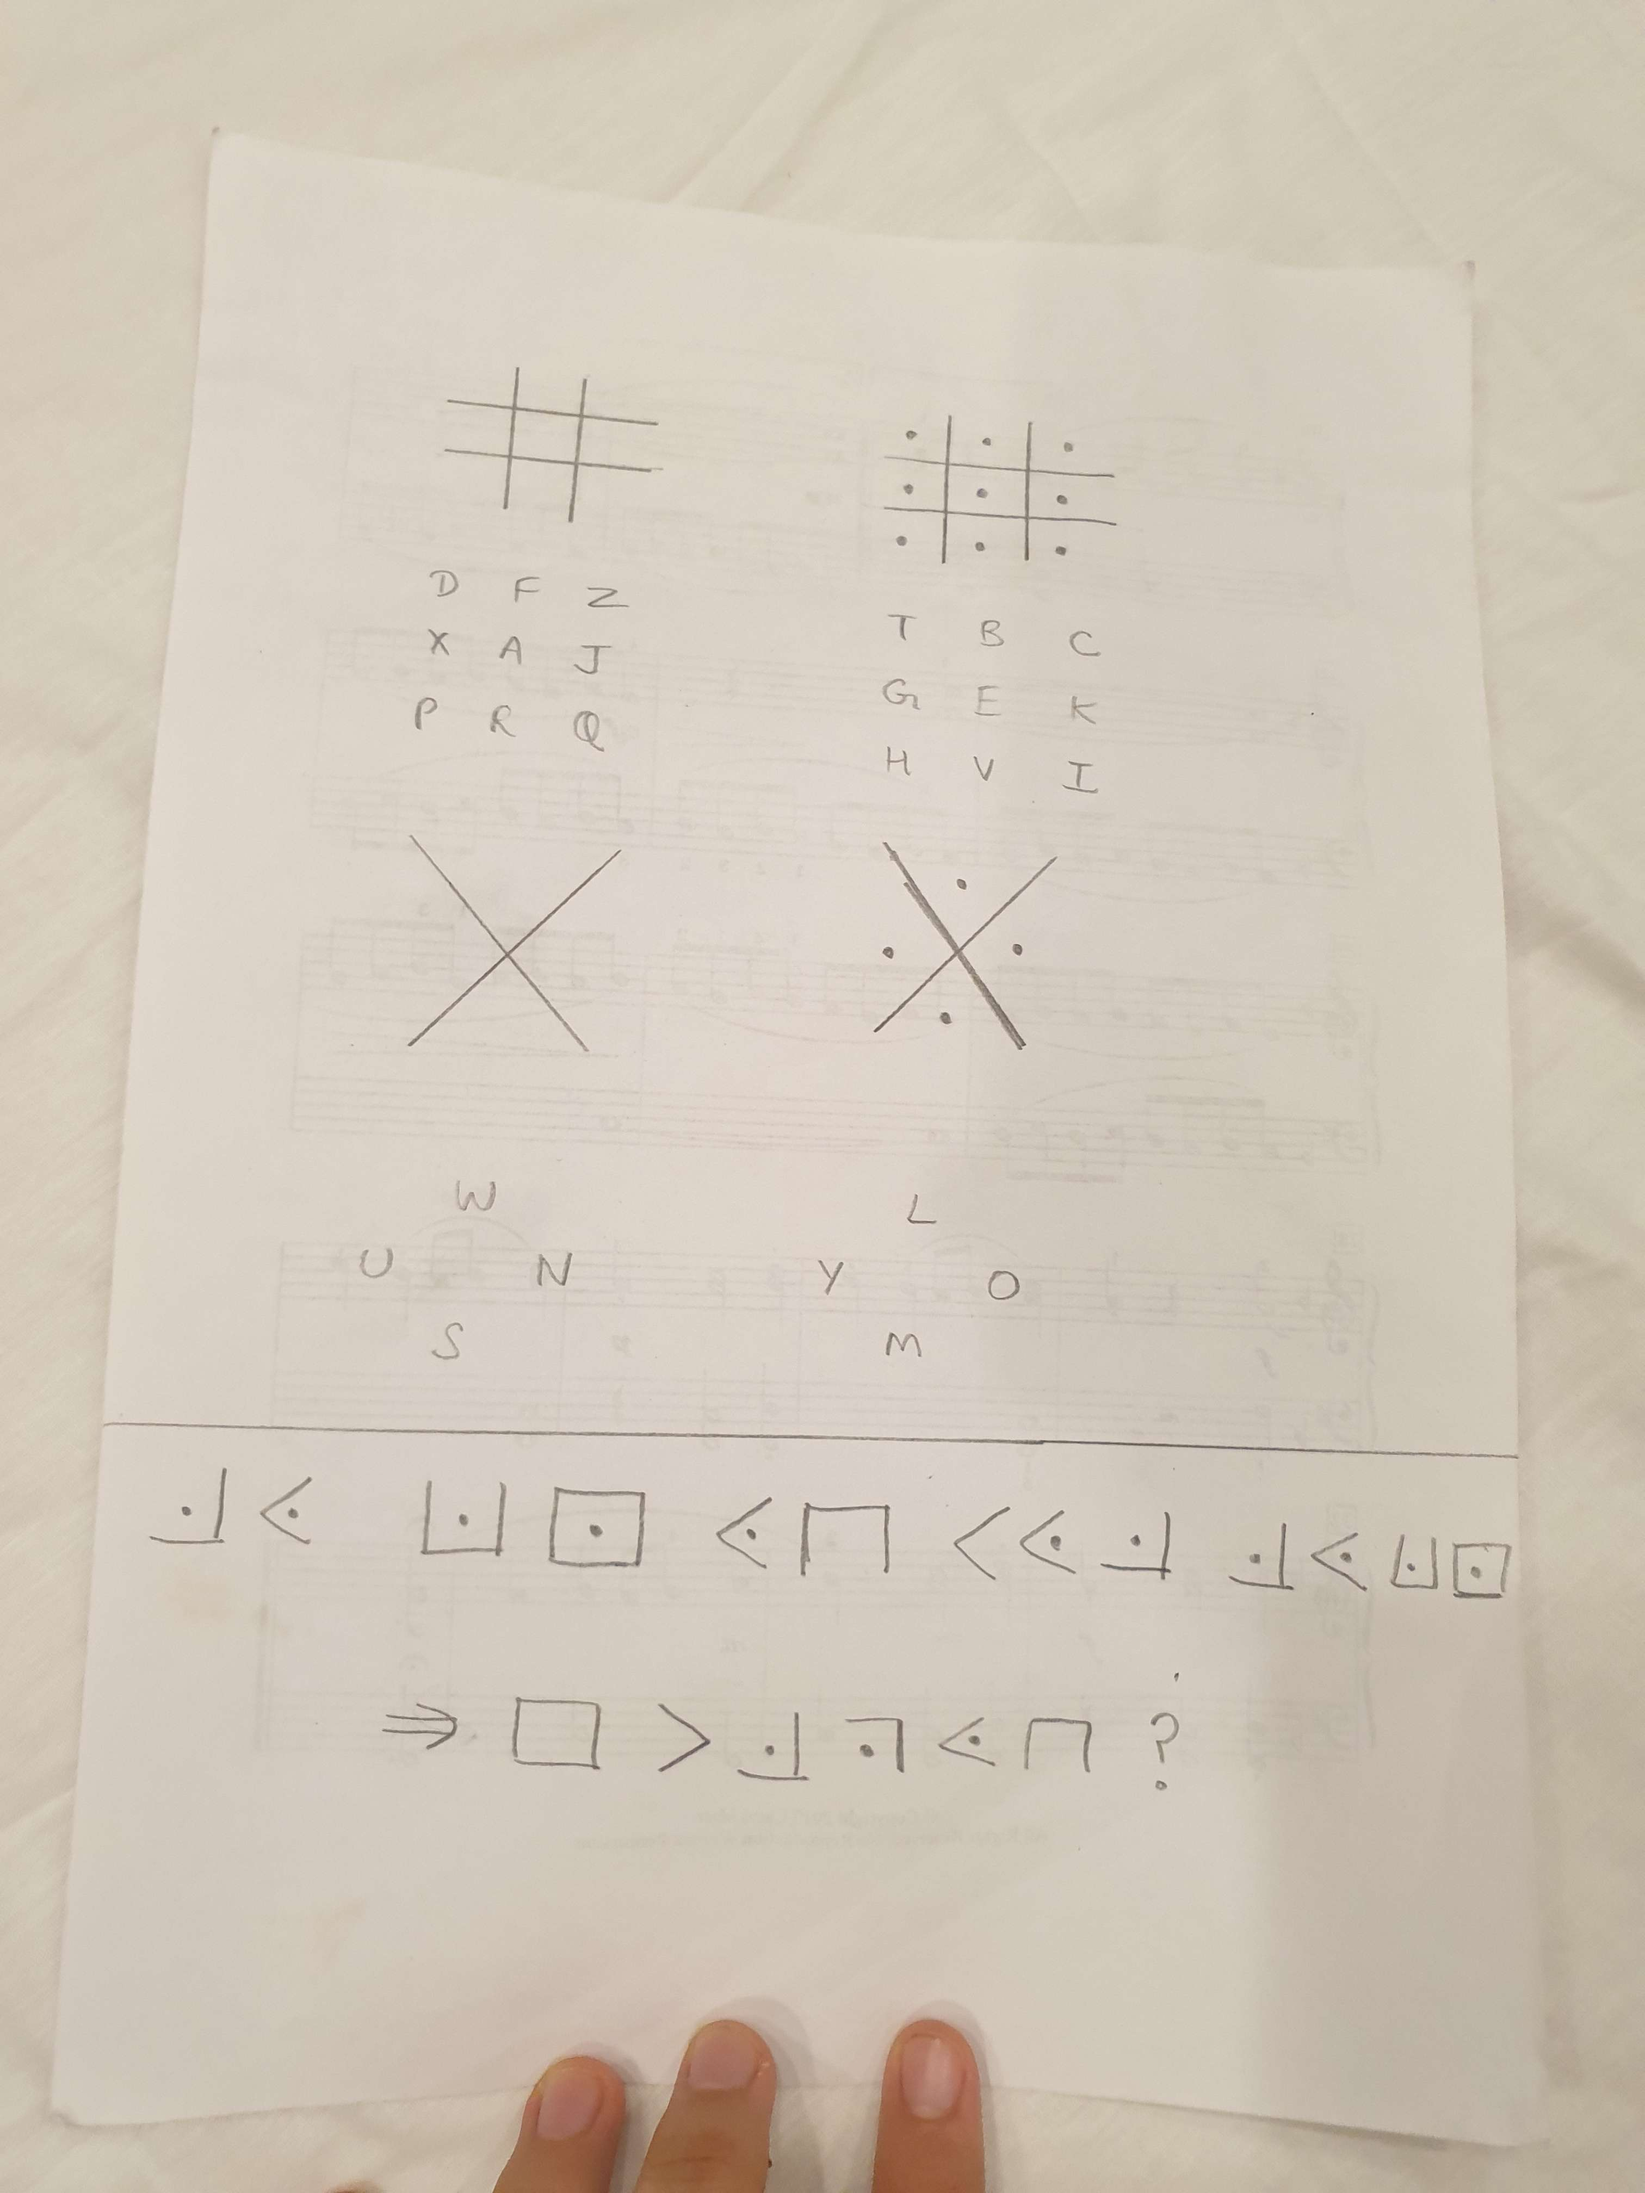
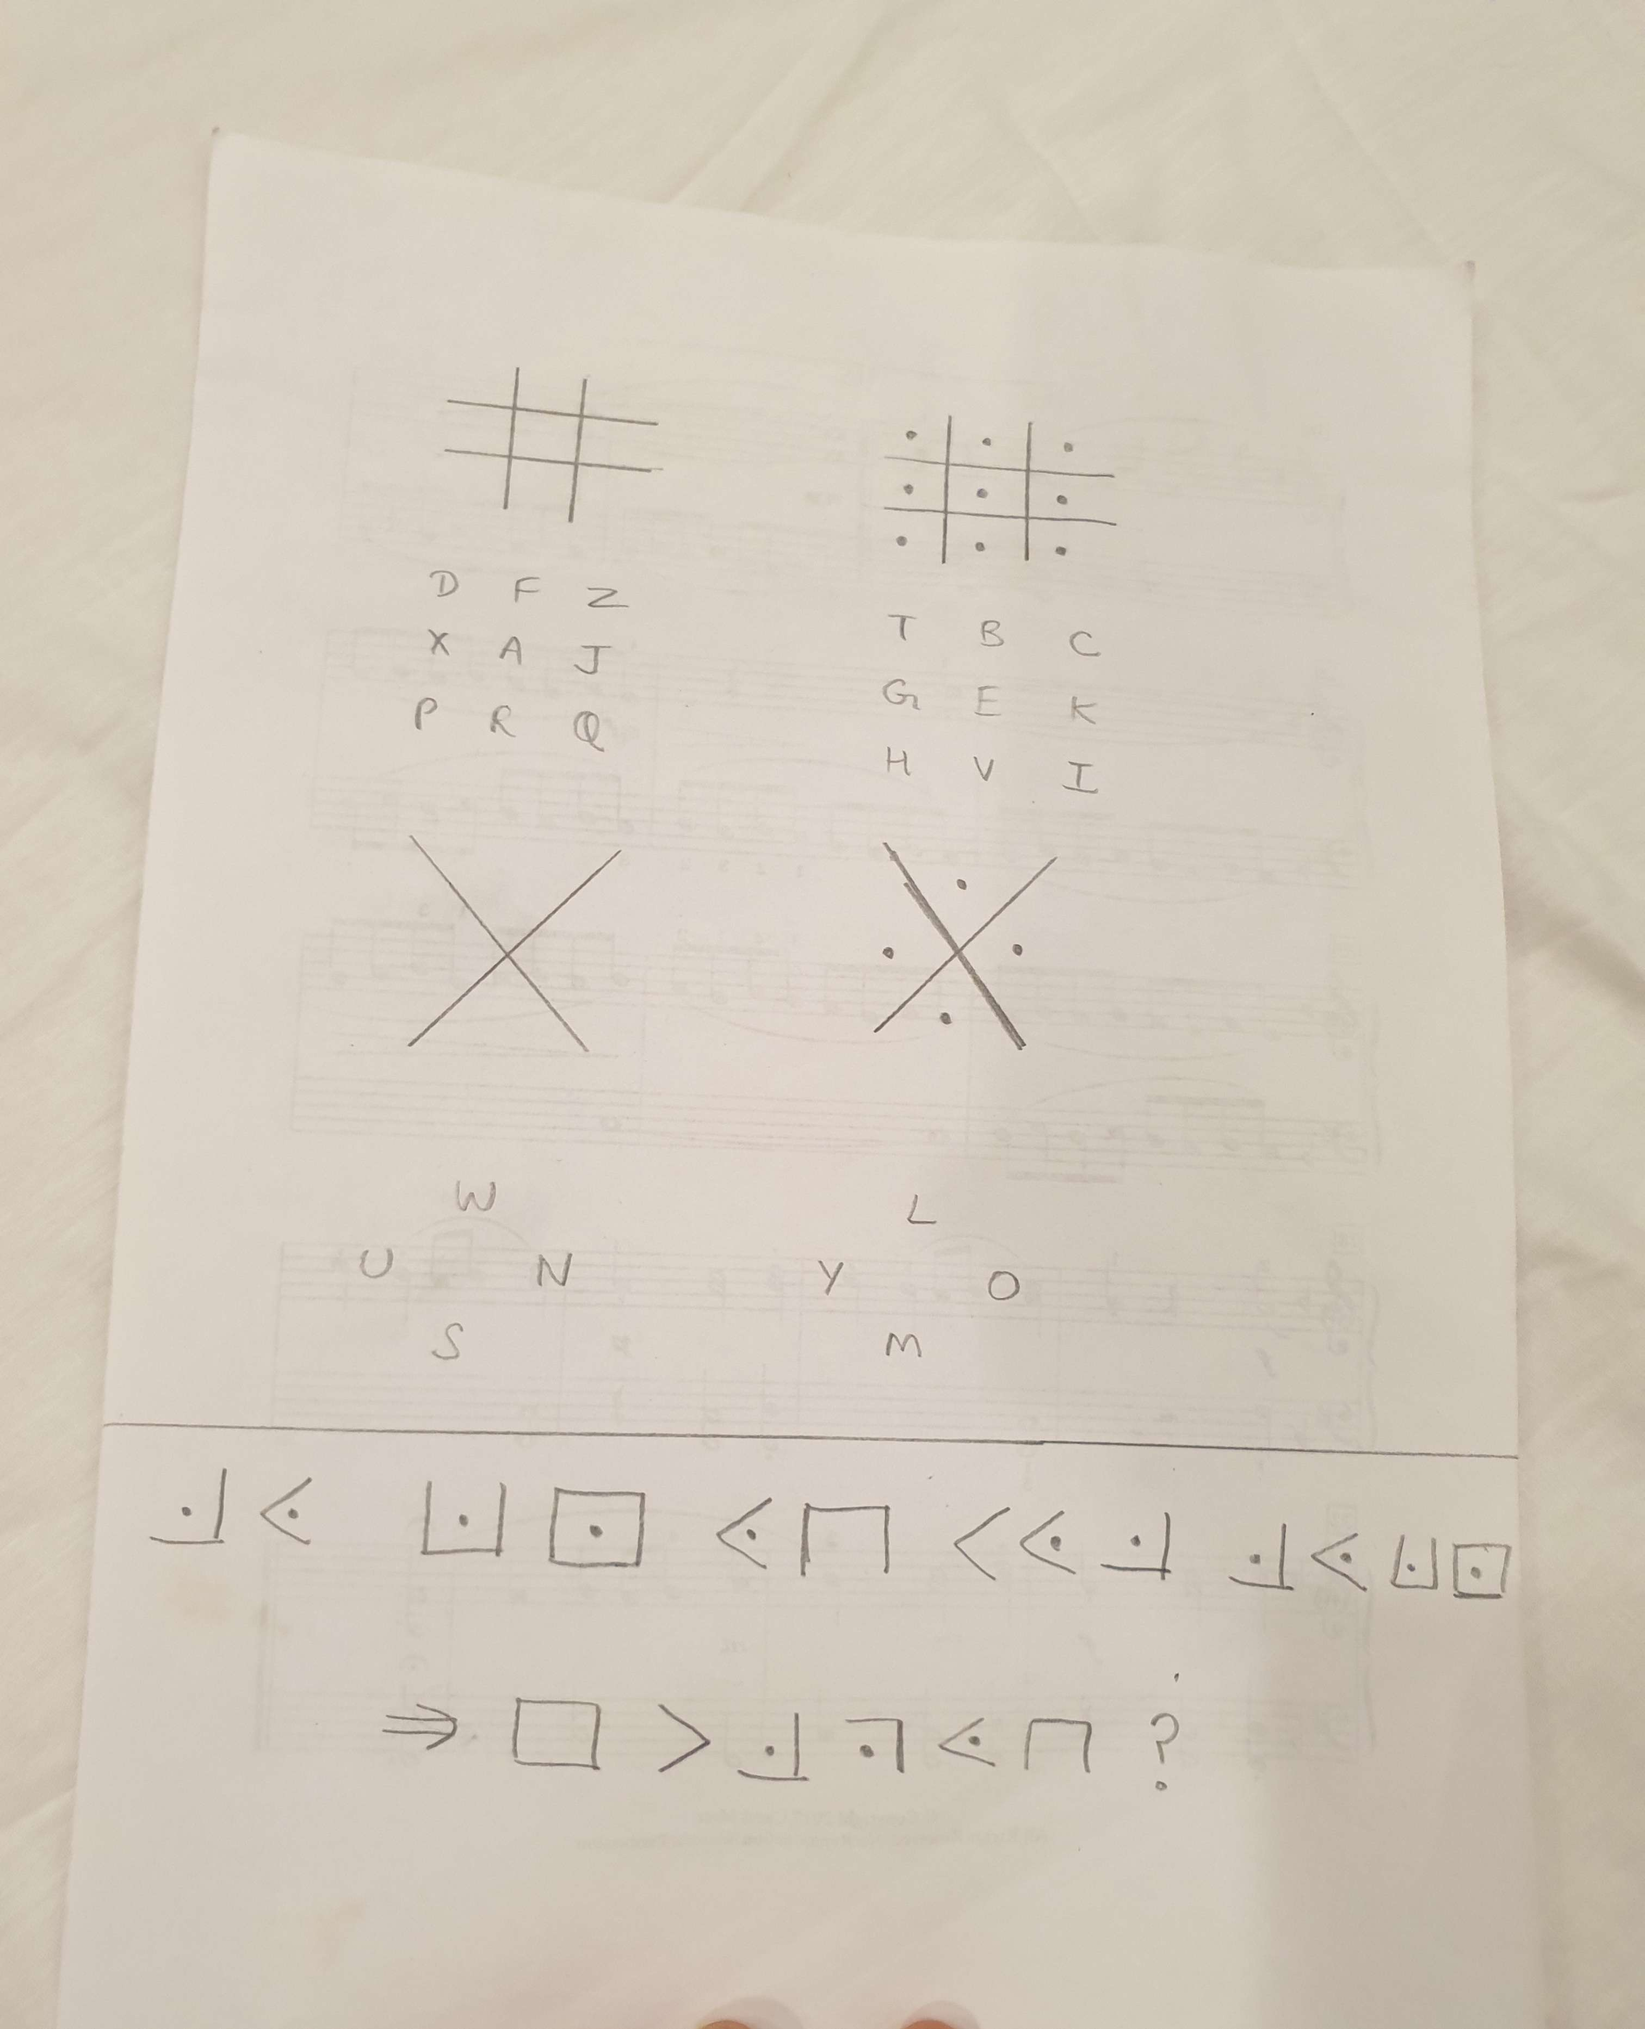
chore: finishing touches

diff --git a/offline/writeup.md b/offline/writeup.md
@@ -1,10 +1,5 @@
 # Offline Encryptid Level
 
-## Challenge Info
-
-**Category**: dude how do i put this into words   
-**Points**: ∞
-
 ## Theme
 The offline level is an **Escape Room** challenge. You are taken to the School Library, in which all lights are dimmed and an environment is set up. The goal is to find **Shyam Prakash**, the penguin mascot of Tech Syndicate, sitting outside the **Exit Door**, and escape out of the room with him. However, the exit door has been locked using a 4-digit code. Your job is to unlock this door and escape.
 
@@ -43,7 +38,7 @@ Something has been written on the sheet music with invisible ink, and can only b
 
 ![5.jpg](./media/5.jpg)
 
-"His first name" means **Antonio**, which will be relevant in a bit. For now, if you turn over the second page of the sheet music, you see this cipher drawn out:
+This shows, **What is his first name?** "His first name" means **Antonio**, which will be relevant in a bit. For now, if you turn over the second page of the sheet music, you see this cipher drawn out:
 
 ![6.jpg](./media/6.jpg)
 
@@ -125,14 +120,14 @@ You have to split up so that one person goes into one room and the other person 
 
 ![Key.png](./media/key.gif)
 
-**The Second Room** has four hidden sheets with different symbols and has text specifying at which position these digits go. You have shout and coordinate with your teammate in the other room which you can't see to decode the 4 digit code.
+**The Second Room** has four hidden sheets with different symbols and has text specifying at which position these digits go. You have to shout and coordinate with your teammate in the other room which you can't see to decode the 4 digit code.
 
 ![sheets.png](./media/sheets.png)
 
 Decoding these 4 sheets, you get the code
 > 3193
 
-Finally, you have to use this code to **unlock the exit** and save shyamprakash.
+Finally, you have to use this code to **unlock the Exit Door** and save shyamprakash :D
 
 
 *Challenge authored by Jai Dugal and Shyamak Seth*
